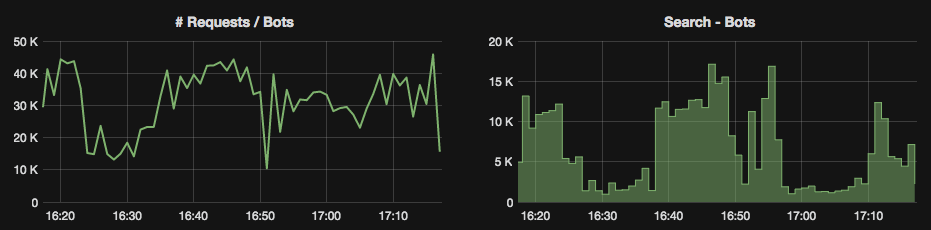
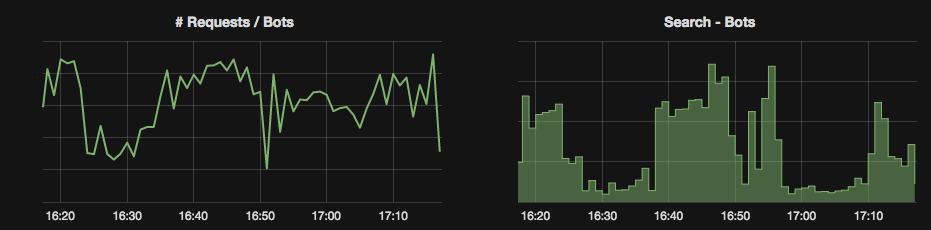
Alteração na imagem de gráfico de bots e pequenas correções

diff --git a/src/posts/https-only.html.md b/src/posts/https-only.html.md
@@ -10,7 +10,7 @@ tags:
   - http2
 ---
 
-Como vocês já devem ter notado, recentemente o [**Elo7**](https://www.elo7.com.br) passou a ser servido **unicamente em _HTTPS_**. Nenhuma parte de nosso conteúdo ou navegação está mais disponível em _HTTP_ plano. Isso segue uma tendência de toda a Internet e cada vez mais sites devem adotar esse "formato". O gráfico abaixo ([extraído daqui](https://www.troyhunt.com/https-adoption-has-reached-the-tipping-point/)) mostra o crescimento do uso de _HTTPS_ entre os 1 milhão de sites mais acessados listados pela [_Alexa_](http://www.alexa.com/).
+Como vocês já devem ter notado, recentemente o [**Elo7**](https://www.elo7.com.br) passou a ser servido **unicamente em _HTTPS_**. Nenhuma parte de nosso conteúdo ou navegação está mais disponível em _HTTP_ plano. Isso segue uma tendência de toda a Internet e cada vez mais sites devem adotar esse "formato". O gráfico abaixo ([extraído daqui](https://www.troyhunt.com/https-adoption-has-reached-the-tipping-point/)) mostra o crescimento do uso de _HTTPS_ entre o 1 milhão de sites mais acessados listados pela [_Alexa_](http://www.alexa.com/).
 
 ![Crescimento de sites HTTPS no último ano](../images/https-4.png)
 
@@ -22,11 +22,11 @@ O protocolo _HTTPS_ é a versão segura do protocolo _HTTP_. Com ele, todos os d
 
 O objetivo primário do _HTTPS_ é, como pode ser facilmente deduzido, prover privacidade na comunicação, impedindo que o teor dos dados seja revelado em caso de interceptação por terceiros. Isso é não apenas desejável, mas indispensável para operações que transmitem dados sensíveis, como senhas, dados bancários, mensagens, etc. É por isso que operações de _login_, pagamentos _online_ e até mesmo troca de mensagens (por aplicativos ou e-mails) sempre são realizadas dessa forma.
 
-Outra vantagem do _HTTPS_ é a comprovação de identidade do site, ou seja, poder ter certeza de que aquele site não é falso e que realmente pertence à entidade que diz pertencer. Isso é possível pois, na _web_, todo certificado _SSL_ utilizado é assinado por uma [Autoridade Certificadora](https://en.wikipedia.org/wiki/Certificate_authority) (_CA_), garantindo sua autenticidade. O certificado nada mais é do que a chave pública usada na porção do protocolo onde se utiliza criptografia assimétrica. (A compreensão plena de todo o mecanismo de funcionamento do protocolo _SSL_ e, em especial, das técnicas de criptografia foge ao escopo desse artigo, por tratar-se de um tópico bastante extenso e complexo.) Essa chave (ou certificado) contém o próprio endereço do site, entre outras informações da entidade à qual pertence. Quando o navegador obtém esse certificado do site, ele pode validar se o certificado foi realmente emitido por uma _CA_ confiável, confirmando se o site é autêntico. (O mecanismo de validação envolve um outro conjunto de certificados das _CAs_ que vêm junto dos navegadores.) Em um cenário onde alguém tentasse usar um certificado falso, essa validação falharia, expondo a fraude, e a barra de endereço não seria exibida com o cadeado verde abaixo.
+Outra vantagem do _HTTPS_ é a comprovação de identidade, ou seja, poder ter certeza de que um site não é falso e que realmente pertence à entidade que diz pertencer. Isso é possível pois, na _web_, todo certificado _SSL_ utilizado é assinado por uma [Autoridade Certificadora](https://en.wikipedia.org/wiki/Certificate_authority) (_CA_), garantindo sua autenticidade. O certificado nada mais é do que a chave pública usada na porção do protocolo onde se utiliza criptografia assimétrica. (A compreensão plena de todo o mecanismo de funcionamento do protocolo _SSL_ e, em especial, das técnicas de criptografia foge ao escopo desse artigo, por tratar-se de um tópico bastante extenso e complexo.) Essa chave (ou certificado) contém o próprio endereço do site, entre outras informações da entidade à qual pertence. Quando o navegador obtém esse certificado do site, pode validar se ele foi realmente emitido por uma _CA_ confiável, confirmando se o site é autêntico. (O mecanismo de validação envolve um outro conjunto de certificados das _CAs_ que vêm junto dos navegadores.) Em um cenário onde alguém tentasse usar um certificado falso, essa validação falharia, expondo a fraude, e a barra de endereço não seria exibida com o cadeado verde abaixo.
 
 ![Navegador indicando que a identidade do site é verdadeira e o site é seguro](../images/https-6.png)
 
-Essa garantia de autenticidade é fundamental para sites que contem informações hiper sensíveis dos usuários, como entidadades finaceiras, serviços de email, entre outros, evitando que se caia em golpes (_phishing_).
+Essa garantia de autenticidade é fundamental para sites que contém informações hiper sensíveis dos usuários, como entidadades finaceiras, serviços de email, entre outros, evitando que se caia em golpes (_phishing_).
 
 Uma das desvantagens do _HTTPS_ em relação ao _HTTP_ é o custo computacional maior para cliente e servidor, devido à série de cálculos que é necessário realizar para criptografar e descriptografar os dados. Entretanto, para o _hardware_ que temos nos dias de hoje, esse _overhead_ costuma ser desprezível perto da complexidade das aplicações em si, impactando muito pouco na carga do servidores ou tempo de resposta. Assim como para os _desktops_, cujos CPUs ficam ociosos boa parte do tempo.
 
@@ -61,7 +61,7 @@ Para que uma página seja considerada segura, não apenas a página em si precis
 
 ## 301 ou 302?
 
-Toda migração precisa ser amigável para os usuários, portanto, um requisito fundamental desse tipo de mudança é que todos os links _HTTP_ sejam redirecionados para sua versão em _HTTPS_, o que, na maior parte das vezes, demanda apenas a troca do protocolo na URL. Isso pode ser realizado a partir de uma configuração muito simples em qualquer _webserver_ de mercado (_Nginx_, _Apache_), como no exemplo abaixo para _Nginx_.
+Toda migração precisa ser amigável para os usuários, portanto, um requisito fundamental desse tipo de mudança é que todos os links _HTTP_ sejam redirecionados para sua versão em _HTTPS_, o que, na maior parte das vezes, demanda apenas a troca do protocolo na _URL_. Isso pode ser realizado a partir de uma configuração muito simples em qualquer _webserver_ de mercado (_Nginx_, _Apache_), como no exemplo abaixo para _Nginx_.
 
 ```
 # Trecho de configuração que deve ir no server HTTP (porta 80)
@@ -93,7 +93,7 @@ Consequências inesperadas como essa - o sumiço dos _bots_ - podem ocorrer, mas
 
 Algo muito importante para a indexação de qualquer site são os índices conhecidos como [_Sitemaps_](https://support.google.com/webmasters/answer/156184?hl=pt-BR), que orientam a navegação inicial dos _bots_ e permitem configurar alguns de seus comportamentos (por exemplo, desligar a indexação de parte das _URLs_, listar endereços que não estão _linkados_ em outras páginas, entre outras coisas), além de identificar de forma mais exata o tipo de conteúdo. Uma vez que o site seja migrado totalmente para _HTTPS_, **é muito importante que as _URLs_ listadas nos arquivos de sitemaps também sejam alteradas**.
 
-Outra ferramenta muito útil são as chamadas _Webmaster Tools_, painéis de controle oferecidos pelos indexadores, como [_Google_](https://www.google.com/webmasters/tools/home?hl=pt-BR) e [_Bing_](http://www.bing.com/toolbox/webmaster) onde é possível visualizar e administrar a indexação das páginas. Através dele é possível adicionar, por exemplo, o endereço inicial do site em _HTTPS_ para que seja indexado paralelamente, mesmo antes da migração definitiva, o que pode ser bastante útil para evitar perda maiores consequências no _ranking_.
+Outra ferramenta muito útil são as chamadas _Webmaster Tools_, painéis de controle oferecidos pelos indexadores, como [_Google_](https://www.google.com/webmasters/tools/home?hl=pt-BR) e [_Bing_](http://www.bing.com/toolbox/webmaster) onde é possível visualizar e administrar a indexação das páginas. Através dele é possível adicionar, por exemplo, o endereço inicial do site em _HTTPS_ para que seja indexado paralelamente, mesmo antes da migração definitiva, o que pode ser bastante útil para evitar maiores consequências no _ranking_.
 
 E, por final, não se desespere. É natural uma mudança de comportamento dos _bots_ após esse tipo de migração, e tomadas todas as precauções necessárias, muitas já mencionadas, é necessário aguardar até alguns dias para eles voltem ao normal. Além disso, é importante ficar atento, pois é possível que o site todo seja reindexado após essa mudança, aumentando significativamente a carga.
 
